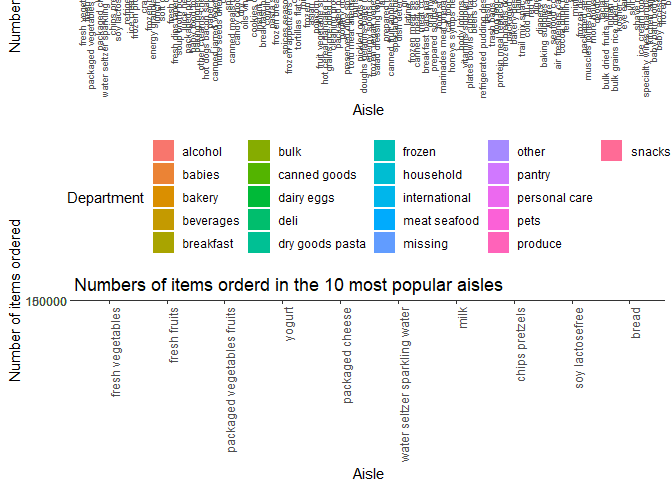
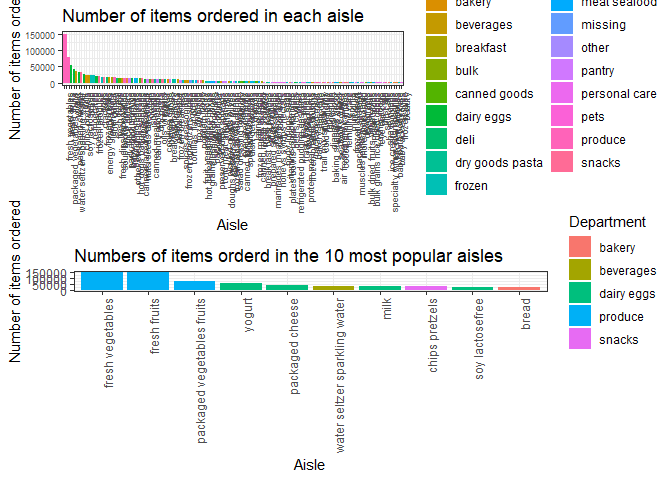
adjust the plot of Q2 in problem 2.

Changed region(s): [[0.0, 0.0, 1.0, 0.9688], [0.4375, 0.9375, 0.5, 1.0], [0.5312, 0.9688, 0.5625, 1.0]]

diff --git a/p8105_hw3_jy2944.md b/p8105_hw3_jy2944.md
@@ -284,7 +284,7 @@ aisle_plot = instacart_data %>%
   theme(
     axis.text.x = element_text(angle = 90, hjust = 1),
     axis.text = element_text(size = 7),
-    legend.position = "bottom"
+    legend.position = "right"
     )
 
 insta_new = instacart_data %>% 
@@ -310,10 +310,10 @@ top_10_aisle = insta_new[c(1:10), ] %>%
     ) +
   theme(
     axis.text.x = element_text(angle = 90, hjust = 1),
-    legend.position = "bottom"
+    legend.position = "right"
     )
 
-aisle_plot / top_10_aisle
+gridExtra::grid.arrange(aisle_plot, top_10_aisle, heights = c(1, 1), nrow = 2 )
 ```
 
 ![](p8105_hw3_jy2944_files/figure-markdown_github/p2_2-1.png)
